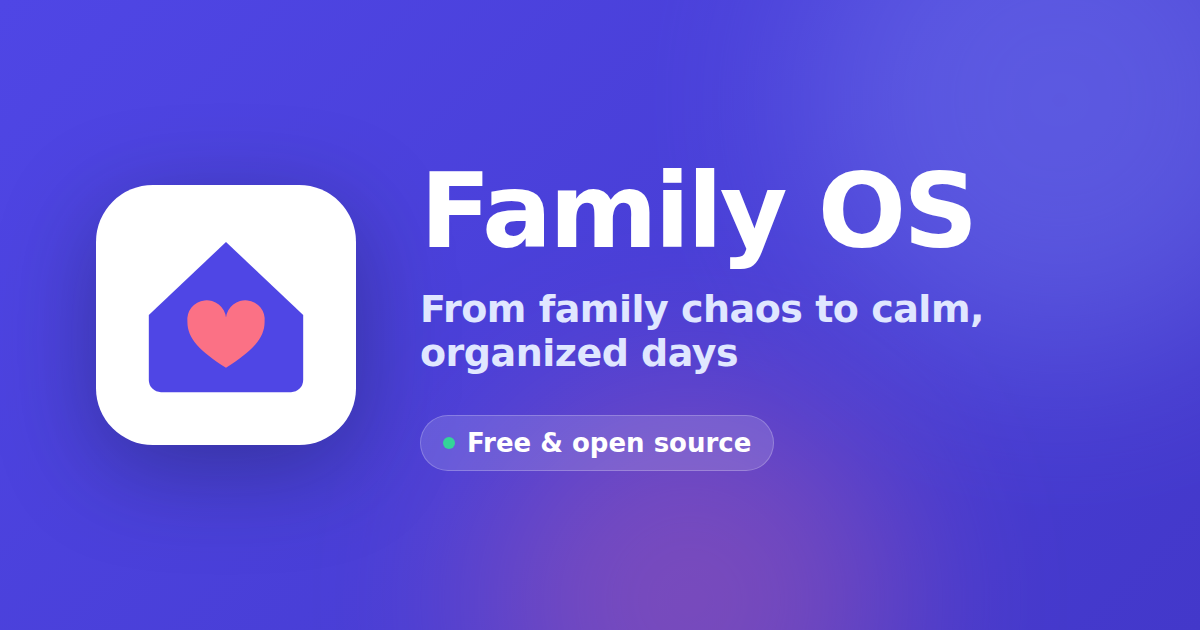
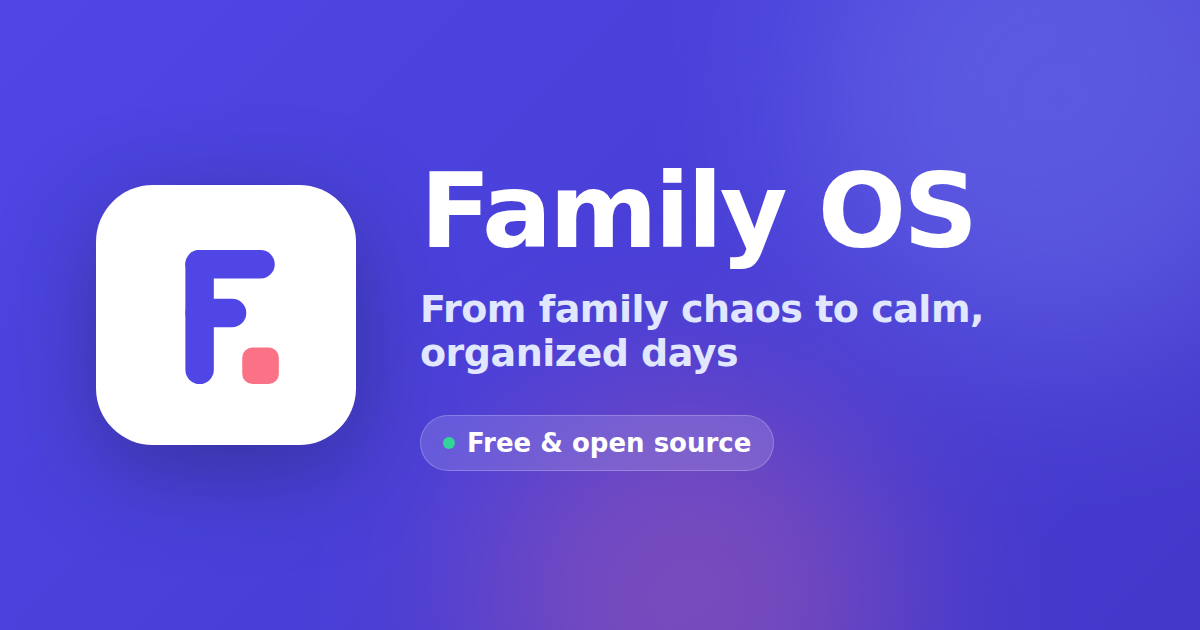
Switch brand mark to bespoke "F" monogram
Replace the roof-and-heart mark with a lettermark: a bespoke "F" (Family)
on the indigo app tile, with a small coral tile as an "OS" accent. A
monogram is the most ownable, instantly-recognizable direction and stays
crisp from a 16px favicon up to the hero header.

Updates BrandMark (consumed by the landing header/footer and TopBar),
favicon.svg, and the regenerated og-image.png.

Claude-Session: https://claude.ai/code/session_0121Dve9CpcBuGRpm1Bbr4TM

Changed region(s): [[0.1233, 0.3921, 0.2775, 0.6333]]

diff --git a/src/components/brand/BrandMark.jsx b/src/components/brand/BrandMark.jsx
@@ -1,7 +1,7 @@
-// The Family OS brand mark: a gabled roof with a heart carved out of the
-// negative space — "one family under one roof". Unlike the old lucide `Home`
-// glyph, this is a bespoke, ownable silhouette that stays legible from a 16px
-// favicon up to the hero header.
+// The Family OS brand mark: a bespoke "F" (Family) monogram on an app tile,
+// with a small coral tile as an "OS" accent. Unlike the old off-the-shelf
+// lucide `Home` glyph, a lettermark is unmistakably *this* app and stays
+// legible from a 16px favicon up to the hero header.
 //
 // It carries fixed signature colors on purpose. The rest of the UI accent is
 // themeable (blue/emerald/rose/violet/amber), but a logo should keep one
@@ -9,7 +9,7 @@
 // here are hard-coded and independent of the `brand-*` tokens.
 
 const INDIGO = '#4F46E5';
-const HEART = '#FB7185';
+const CORAL = '#FB7185';
 
 export default function BrandMark({ className = 'h-8 w-8', title = 'Family OS' }) {
   return (
@@ -22,11 +22,12 @@ export default function BrandMark({ className = 'h-8 w-8', title = 'Family OS' }
     >
       <title>{title}</title>
       <rect width="64" height="64" rx="14" fill={INDIGO} />
-      <path d="M13 32 L32 14 L51 32 V48 a3 3 0 0 1-3 3 H16 a3 3 0 0 1-3-3 Z" fill="#fff" />
-      <path
-        d="M32 45 c-6.5-4.2-9.5-7.3-9.5-11.3 a4.3 4.3 0 0 1 9.5-1.1 a4.3 4.3 0 0 1 9.5 1.1 c0 4-3 7.1-9.5 11.3 Z"
-        fill={HEART}
-      />
+      {/* Stem + two arms of the "F" */}
+      <rect x="22" y="16" width="7" height="33" rx="3.5" fill="#fff" />
+      <rect x="22" y="16" width="22" height="7" rx="3.5" fill="#fff" />
+      <rect x="22" y="28" width="15" height="7" rx="3.5" fill="#fff" />
+      {/* Coral "OS" tile accent */}
+      <rect x="36" y="40" width="9" height="9" rx="2.5" fill={CORAL} />
     </svg>
   );
 }